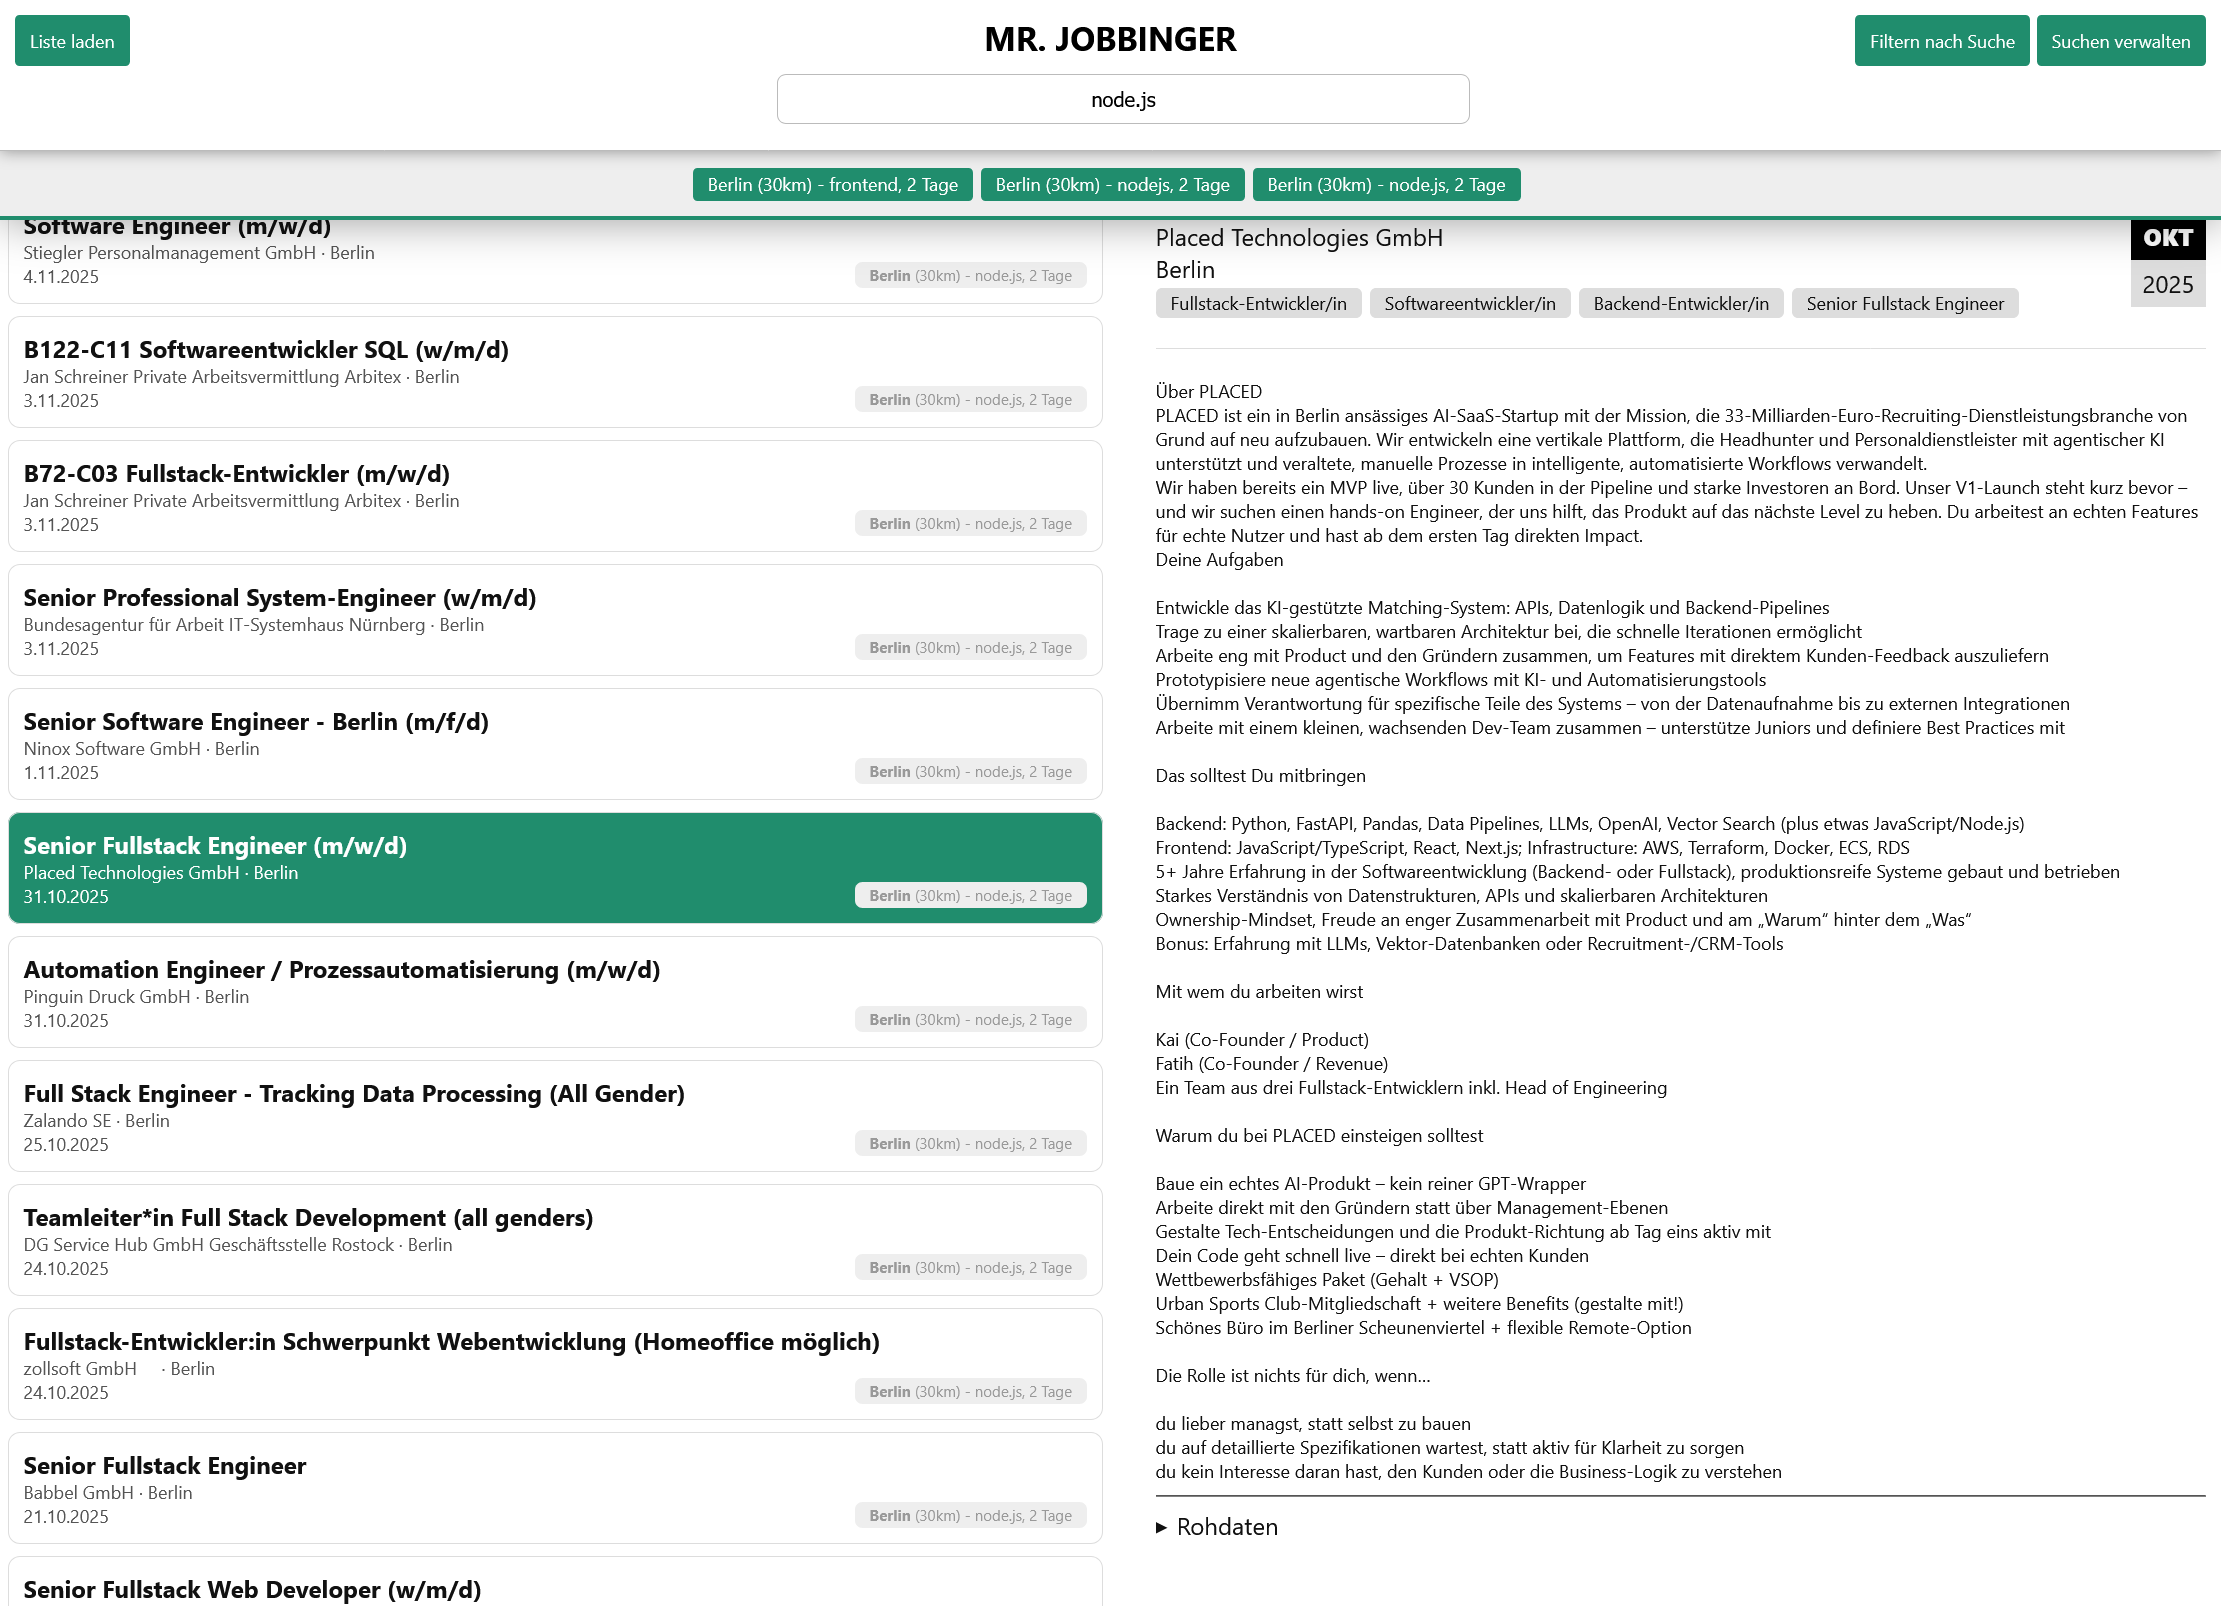
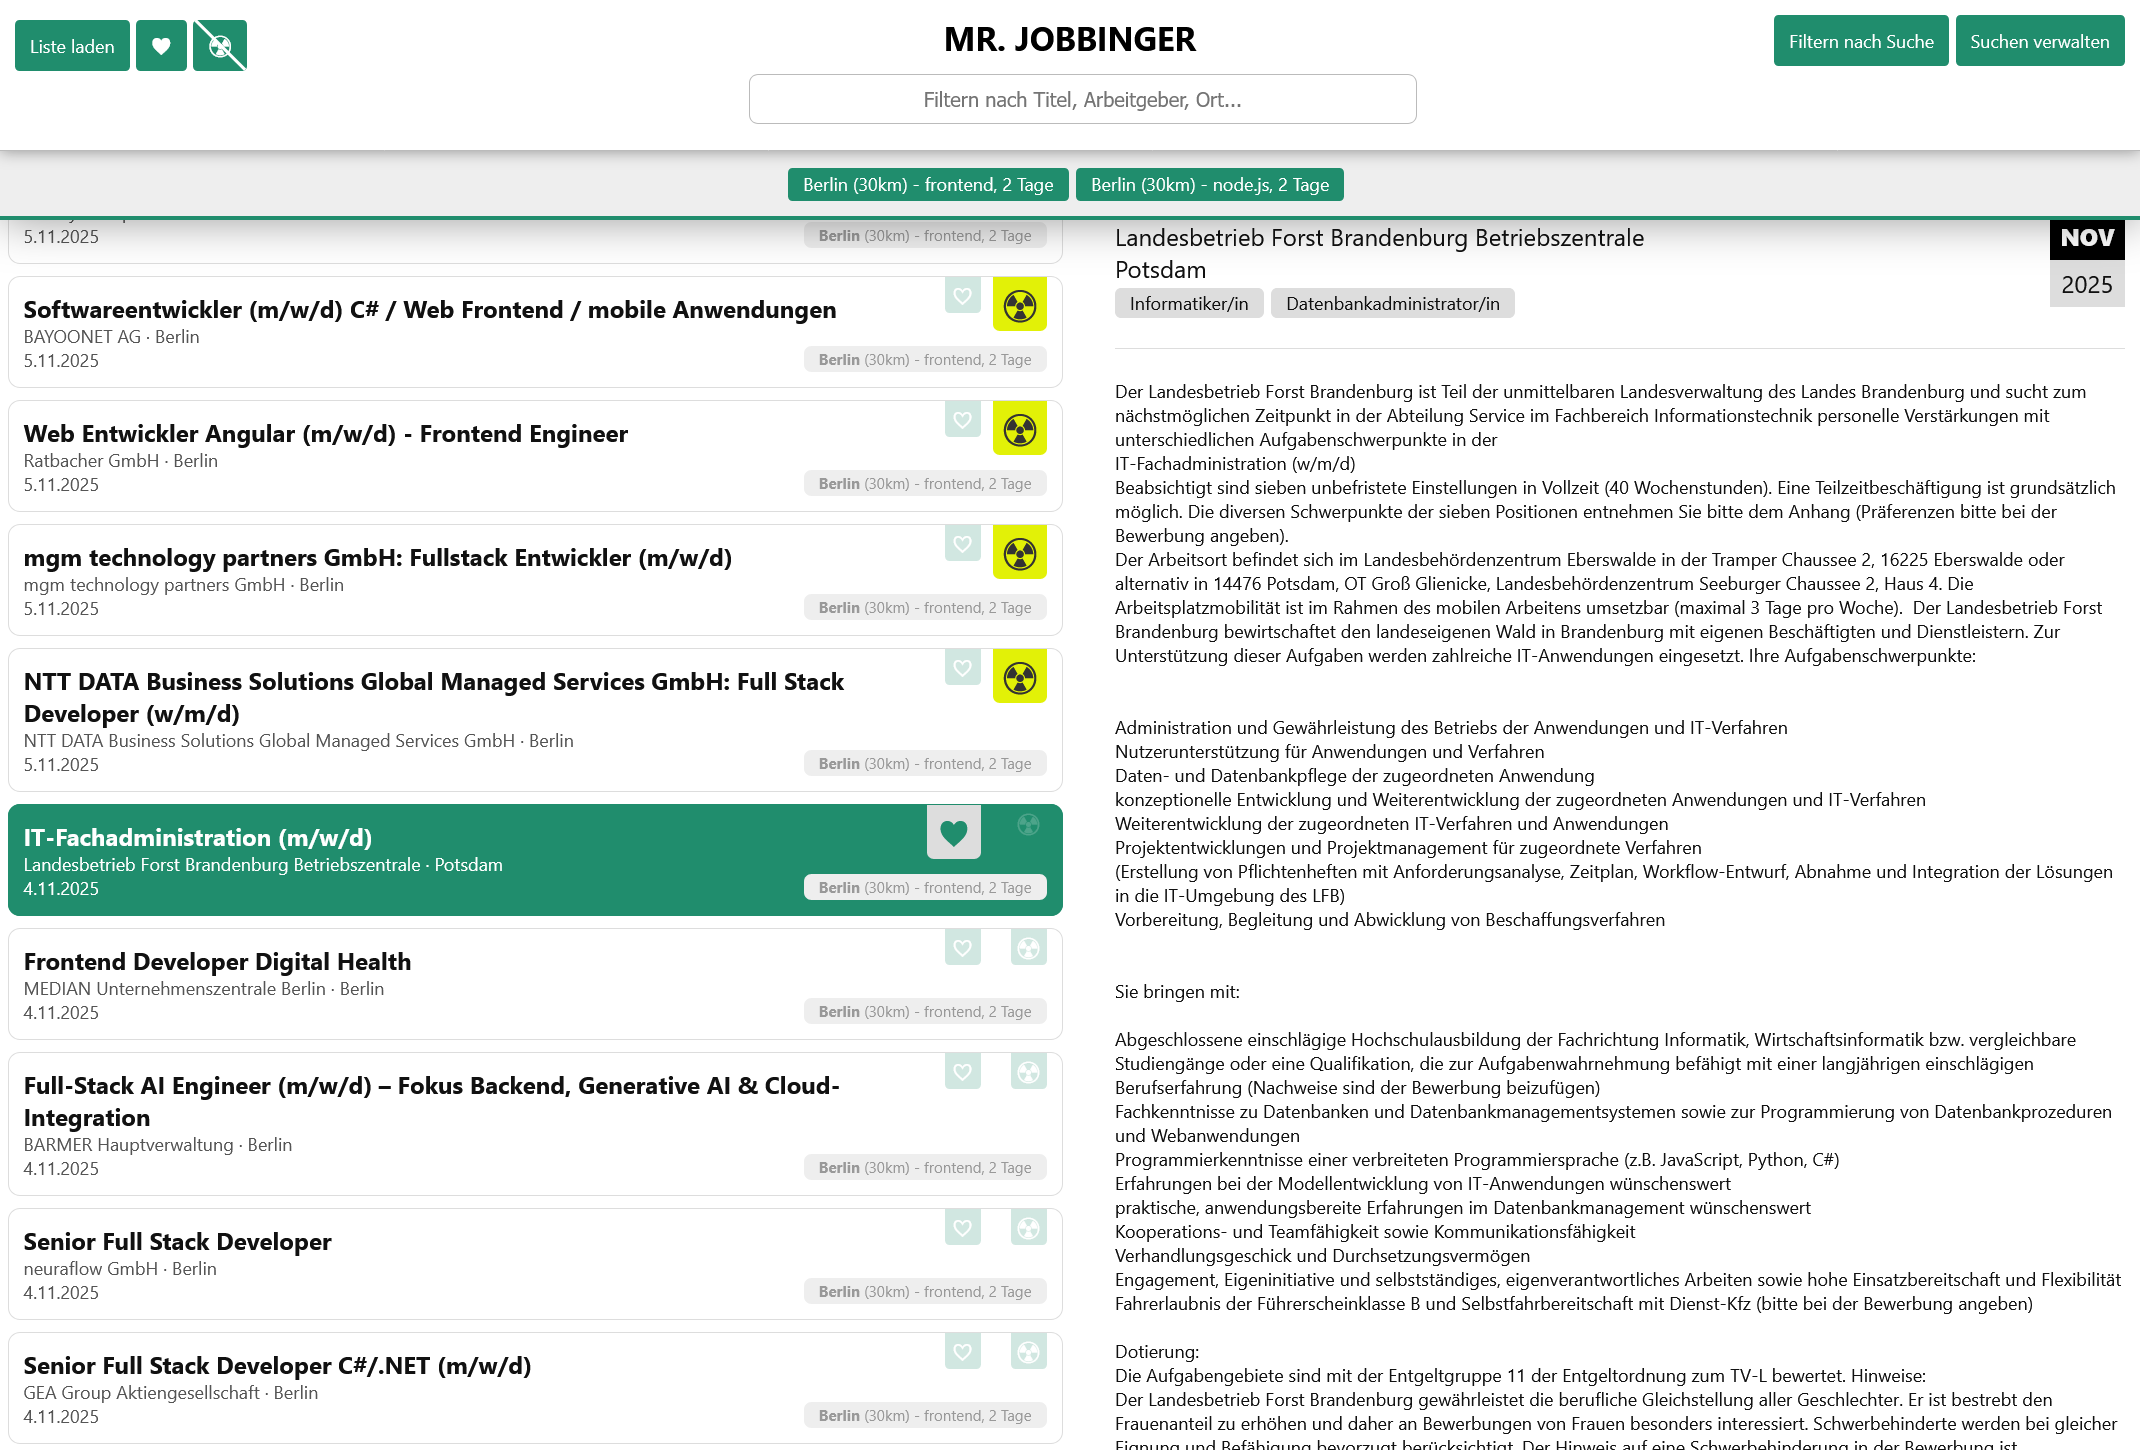
screenshots, readme

diff --git a/README.md b/README.md
@@ -10,8 +10,6 @@ Eine Suchhilfe für die Jobsuche der Arbeitsagentur für Arbeit.
 - Liste nach Suche filtern
 - Alle Suchergebnisse landen in einer Liste
 - Keine Dopplungen mehr wie per E-Mail-Suchauftrag
-
-### @TODO
 - Herzchenliste
 - Ignore-Liste
 
